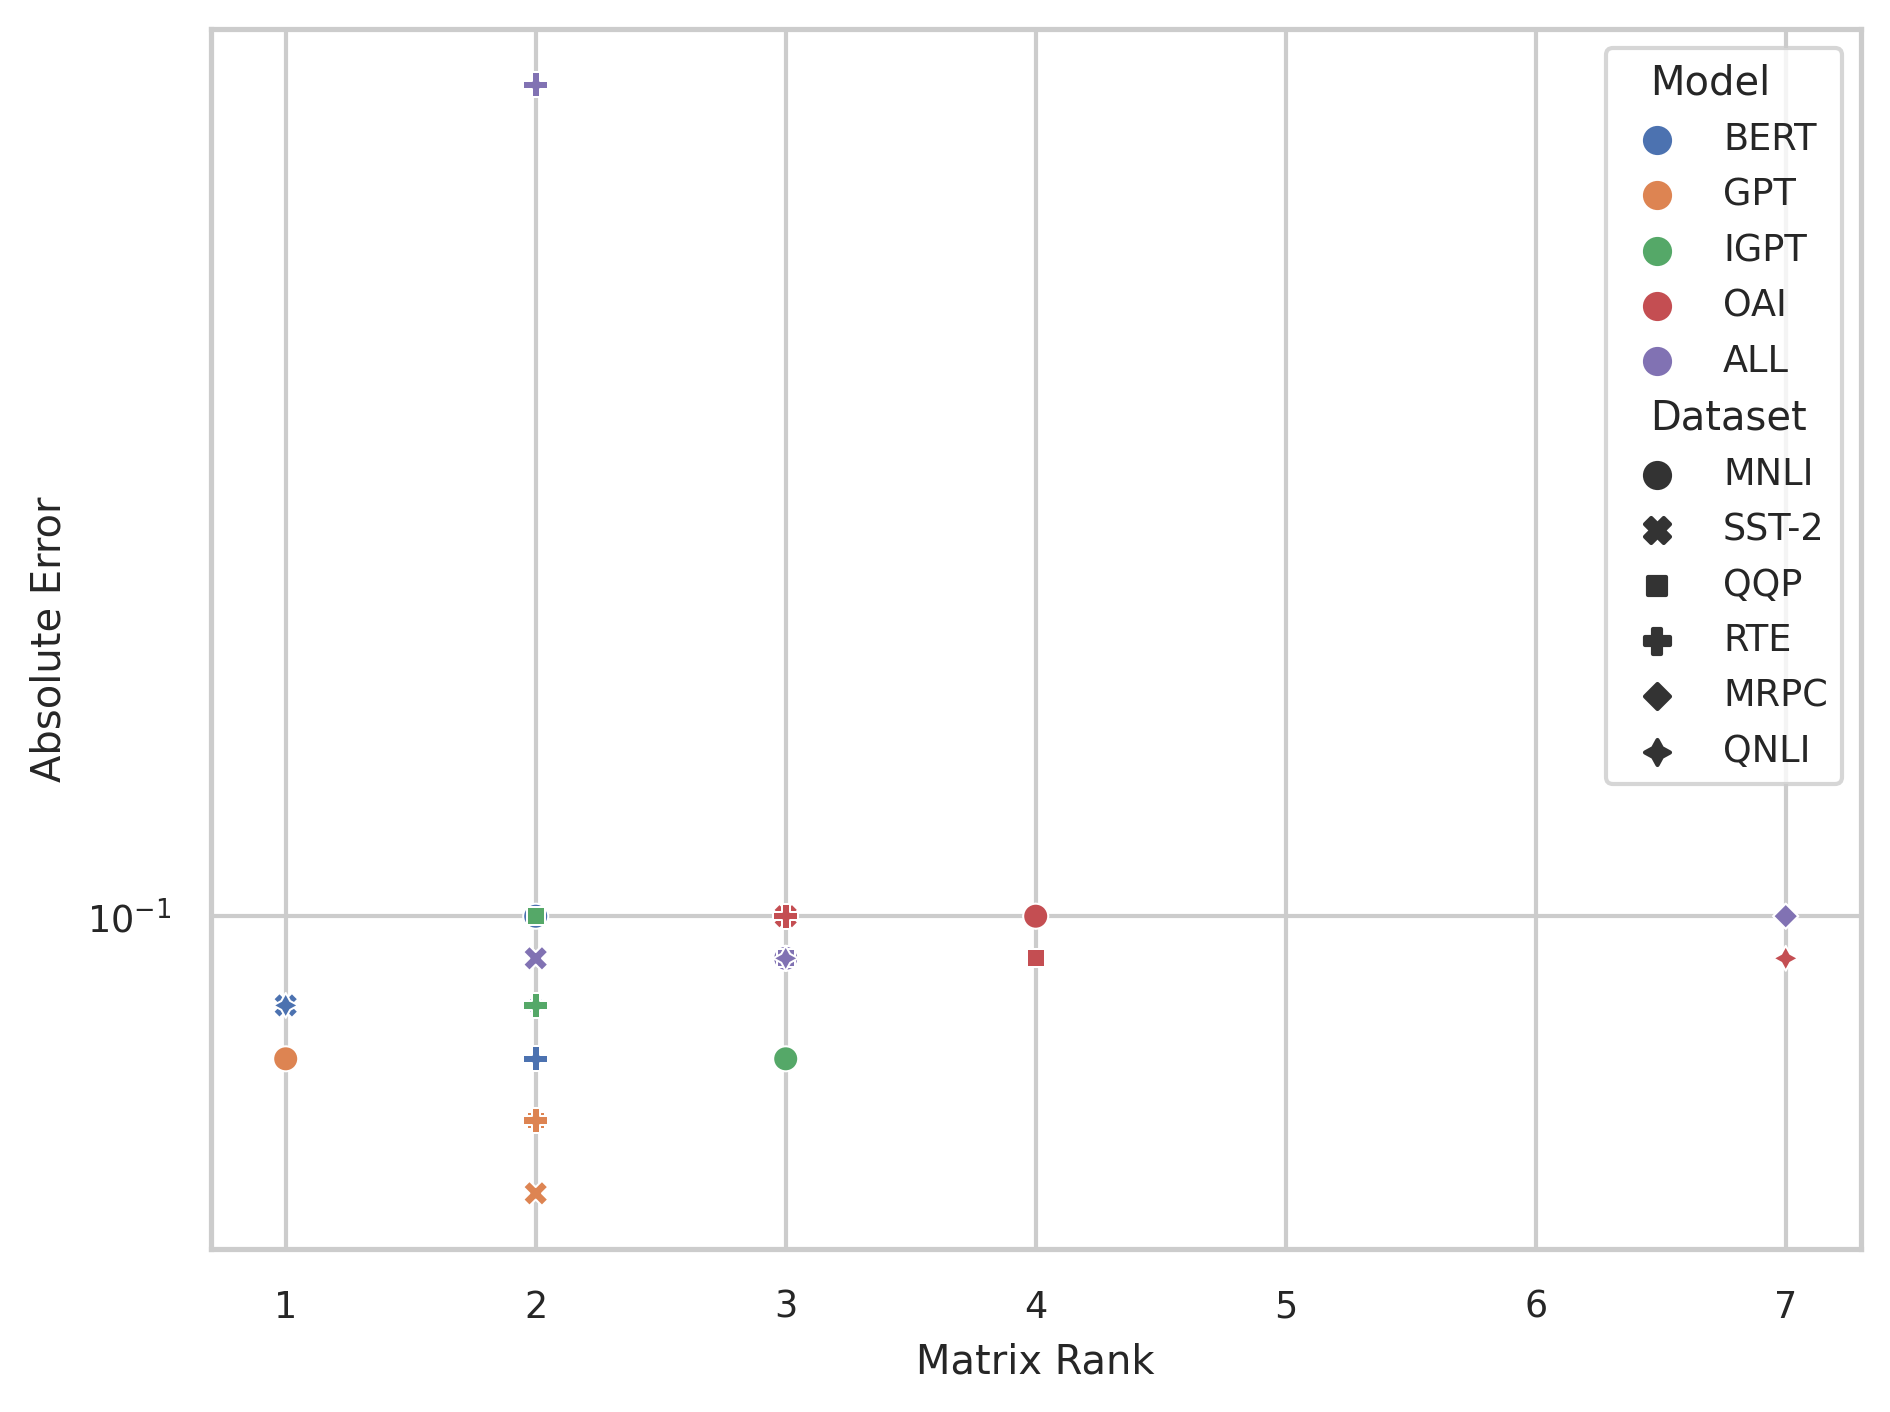
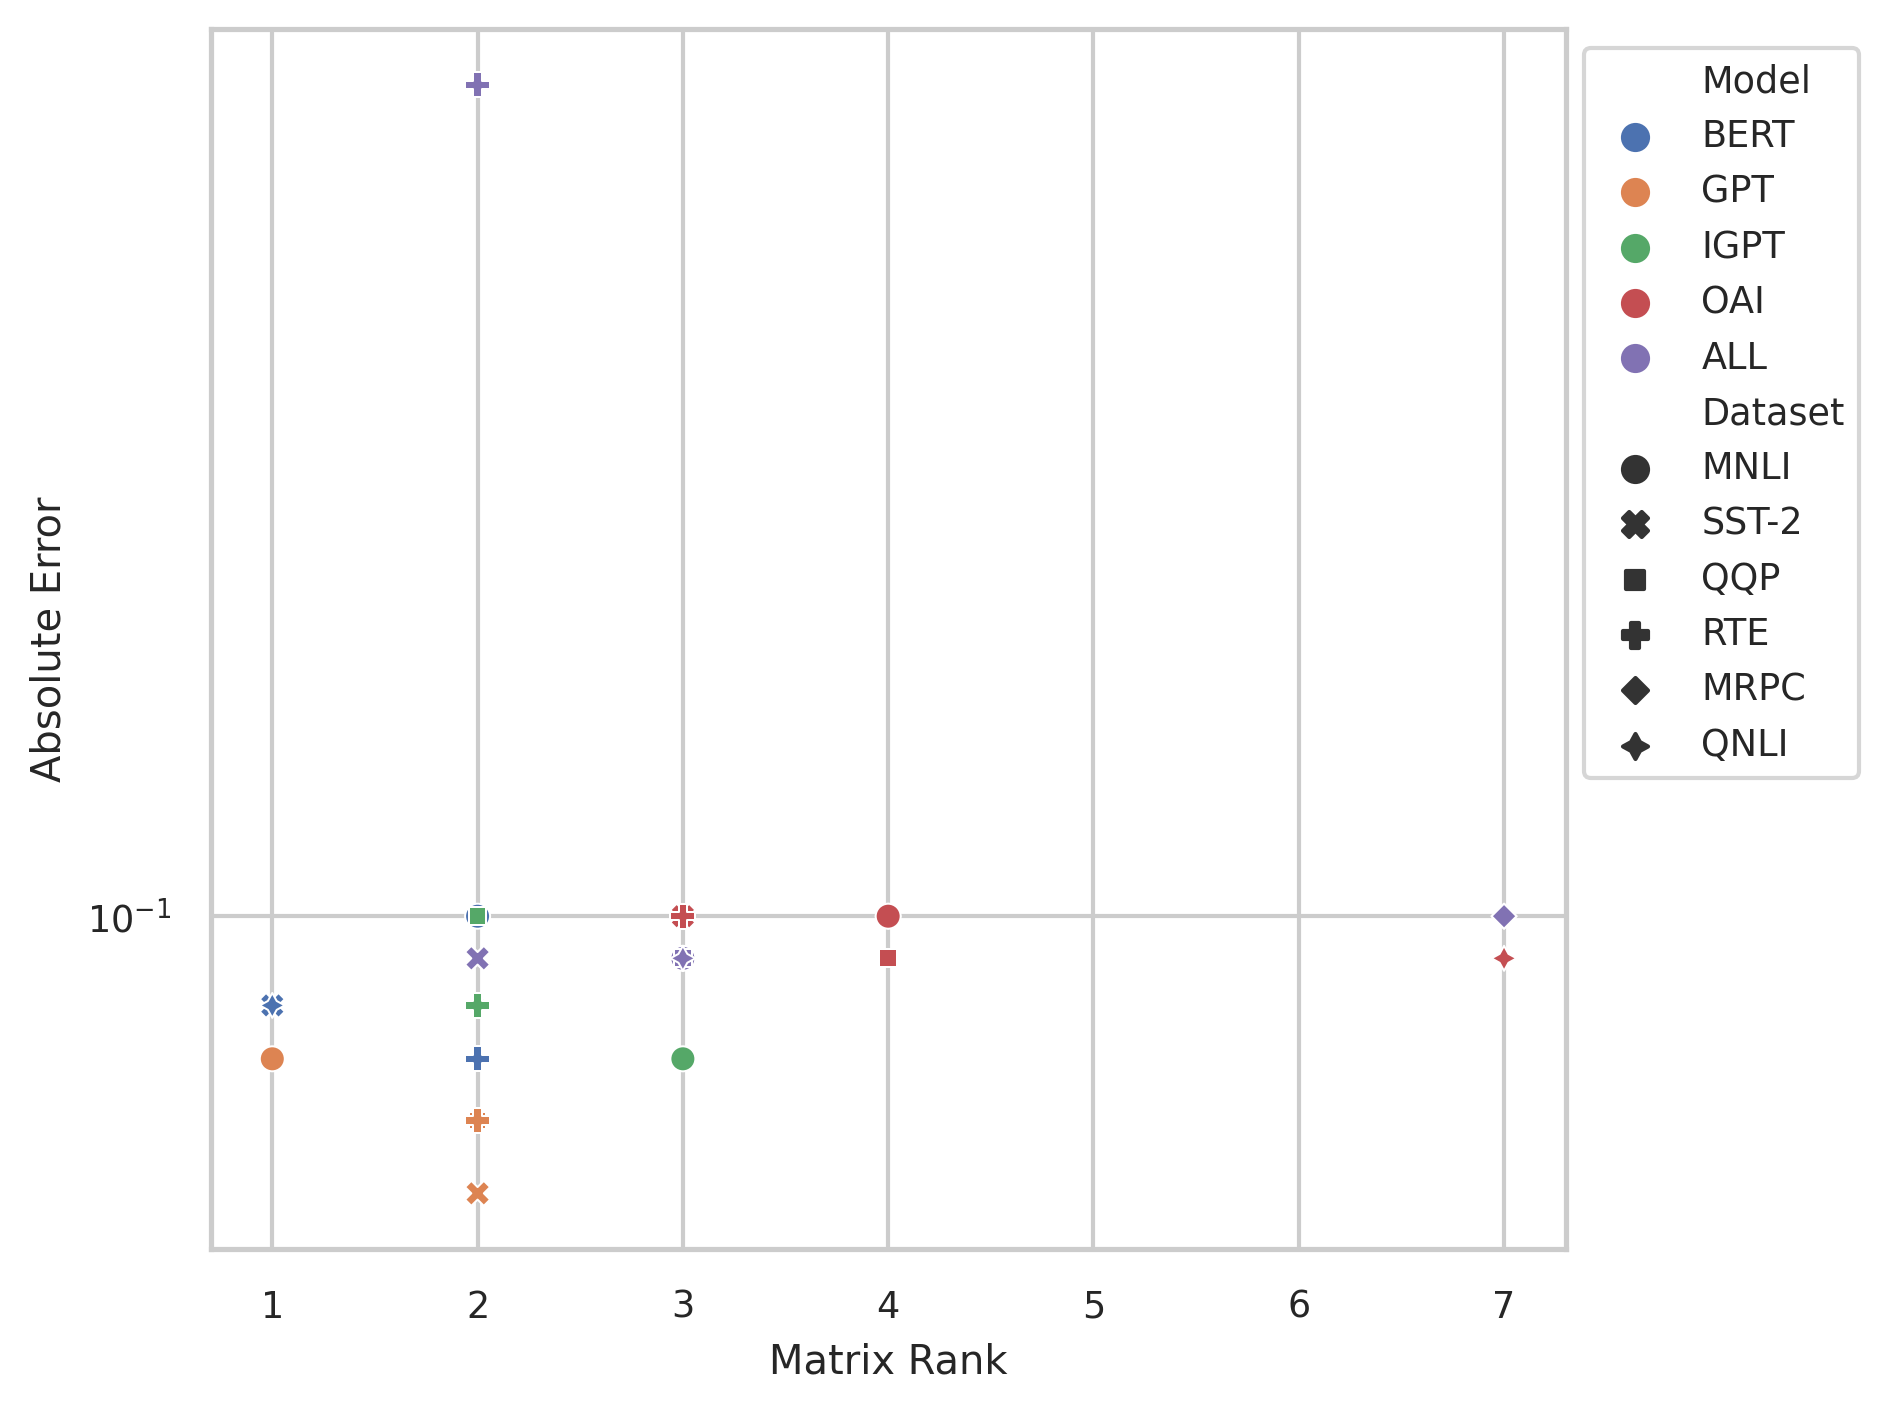
Moved legend to the side

diff --git a/papers/anchor_points_vivek_2023/anchor_points_vivek_2023.py b/papers/anchor_points_vivek_2023/anchor_points_vivek_2023.py
@@ -69,13 +69,14 @@ joint_df.rename(columns={"index": "Dataset"}, inplace=True)
 
 
 plt.close()
-sns.scatterplot(
+g = sns.scatterplot(
     data=joint_df,
     x="Matrix Rank",
     y="Absolute Error",
     hue="Model",
     style="Dataset",
 )
+sns.move_legend(g, "upper left", bbox_to_anchor=(1, 1))
 plt.yscale("log")
 save_plot_with_multiple_extensions(
     plot_dir=paper_dir,
